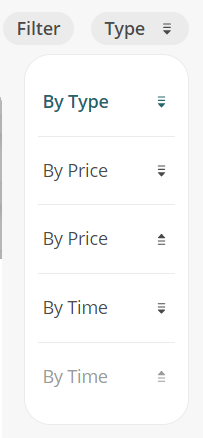
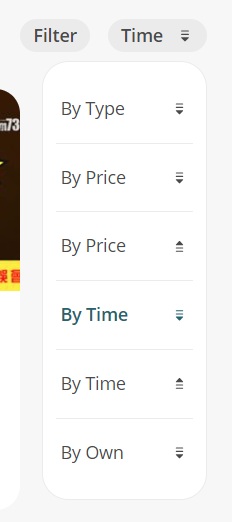
GITBOOK-4540: NFT Portfolio

diff --git a/general-guides/writing-nft/collect-writing-nft/nft-portfolio.md b/general-guides/writing-nft/collect-writing-nft/nft-portfolio.md
@@ -6,7 +6,17 @@ description: Check out other users' NFT collections
 
 Besides collecting via the NFT Widget, readers can also collect Writing NFTs from the writer's **NFT Portfolio** page (in the format https://liker.land/\[WalletAddress]). Writers and collectors can share links to their collections through any channel.
 
-<figure><img src="../../../.gitbook/assets/NFT Portfolio 1-en.png" alt=""><figcaption><p>NFT Portfolio</p></figcaption></figure>
+## Collected
+
+Display the user's NFT collection.
+
+<figure><img src="../../../.gitbook/assets/NFT Portfolio Collected-en.png" alt=""><figcaption><p>Collected</p></figcaption></figure>
+
+## Created
+
+Displays the NFT created by this user.
+
+<figure><img src="../../../.gitbook/assets/NFT Portfolio Created-en.png" alt=""><figcaption><p>Created</p></figcaption></figure>
 
 ## NFT Gems
 
@@ -14,9 +24,11 @@ In addition to expressing the value of the collectibles in numbers, the Portfoli
 
 <figure><img src="../../../.gitbook/assets/NFT Portfolio 2.png" alt=""><figcaption><p>NFT Gems</p></figcaption></figure>
 
-## Top Fans
+## Favorite Creators and Top Fans
 
-The "Top Fans" function enhances the relationship between creators and their supporters.
+The "Favorite Creators" and "Top Fans" function enhances the relationship between creators and their supporters.
+
+<figure><img src="../../../.gitbook/assets/NFT Portfolio 7-en.png" alt=""><figcaption><p>Favorite Creators</p></figcaption></figure>
 
 <figure><img src="../../../.gitbook/assets/NFT Portfolio 3-en.png" alt=""><figcaption><p>Top Fans</p></figcaption></figure>
 
@@ -24,9 +36,18 @@ The "Top Fans" function enhances the relationship between creators and their sup
 
 Users can now view any NFT portfolio by applying different sorting algorithms, including sorting:
 
+* NFT type: All NFTs, Articles, Books
+
+<figure><img src="../../../.gitbook/assets/NFT Portfolio 5-en.png" alt=""><figcaption><p>NFT type</p></figcaption></figure>
+
+* Creators
+
+<figure><img src="../../../.gitbook/assets/NFT Portfolio 6-en.png" alt=""><figcaption><p>Creators</p></figcaption></figure>
+
 * By Type
 * By Price
 * By Time
+* By Own
 
 <figure><img src="../../../.gitbook/assets/NFT Portfolio 4-en.png" alt=""><figcaption><p>List by order</p></figcaption></figure>
 
